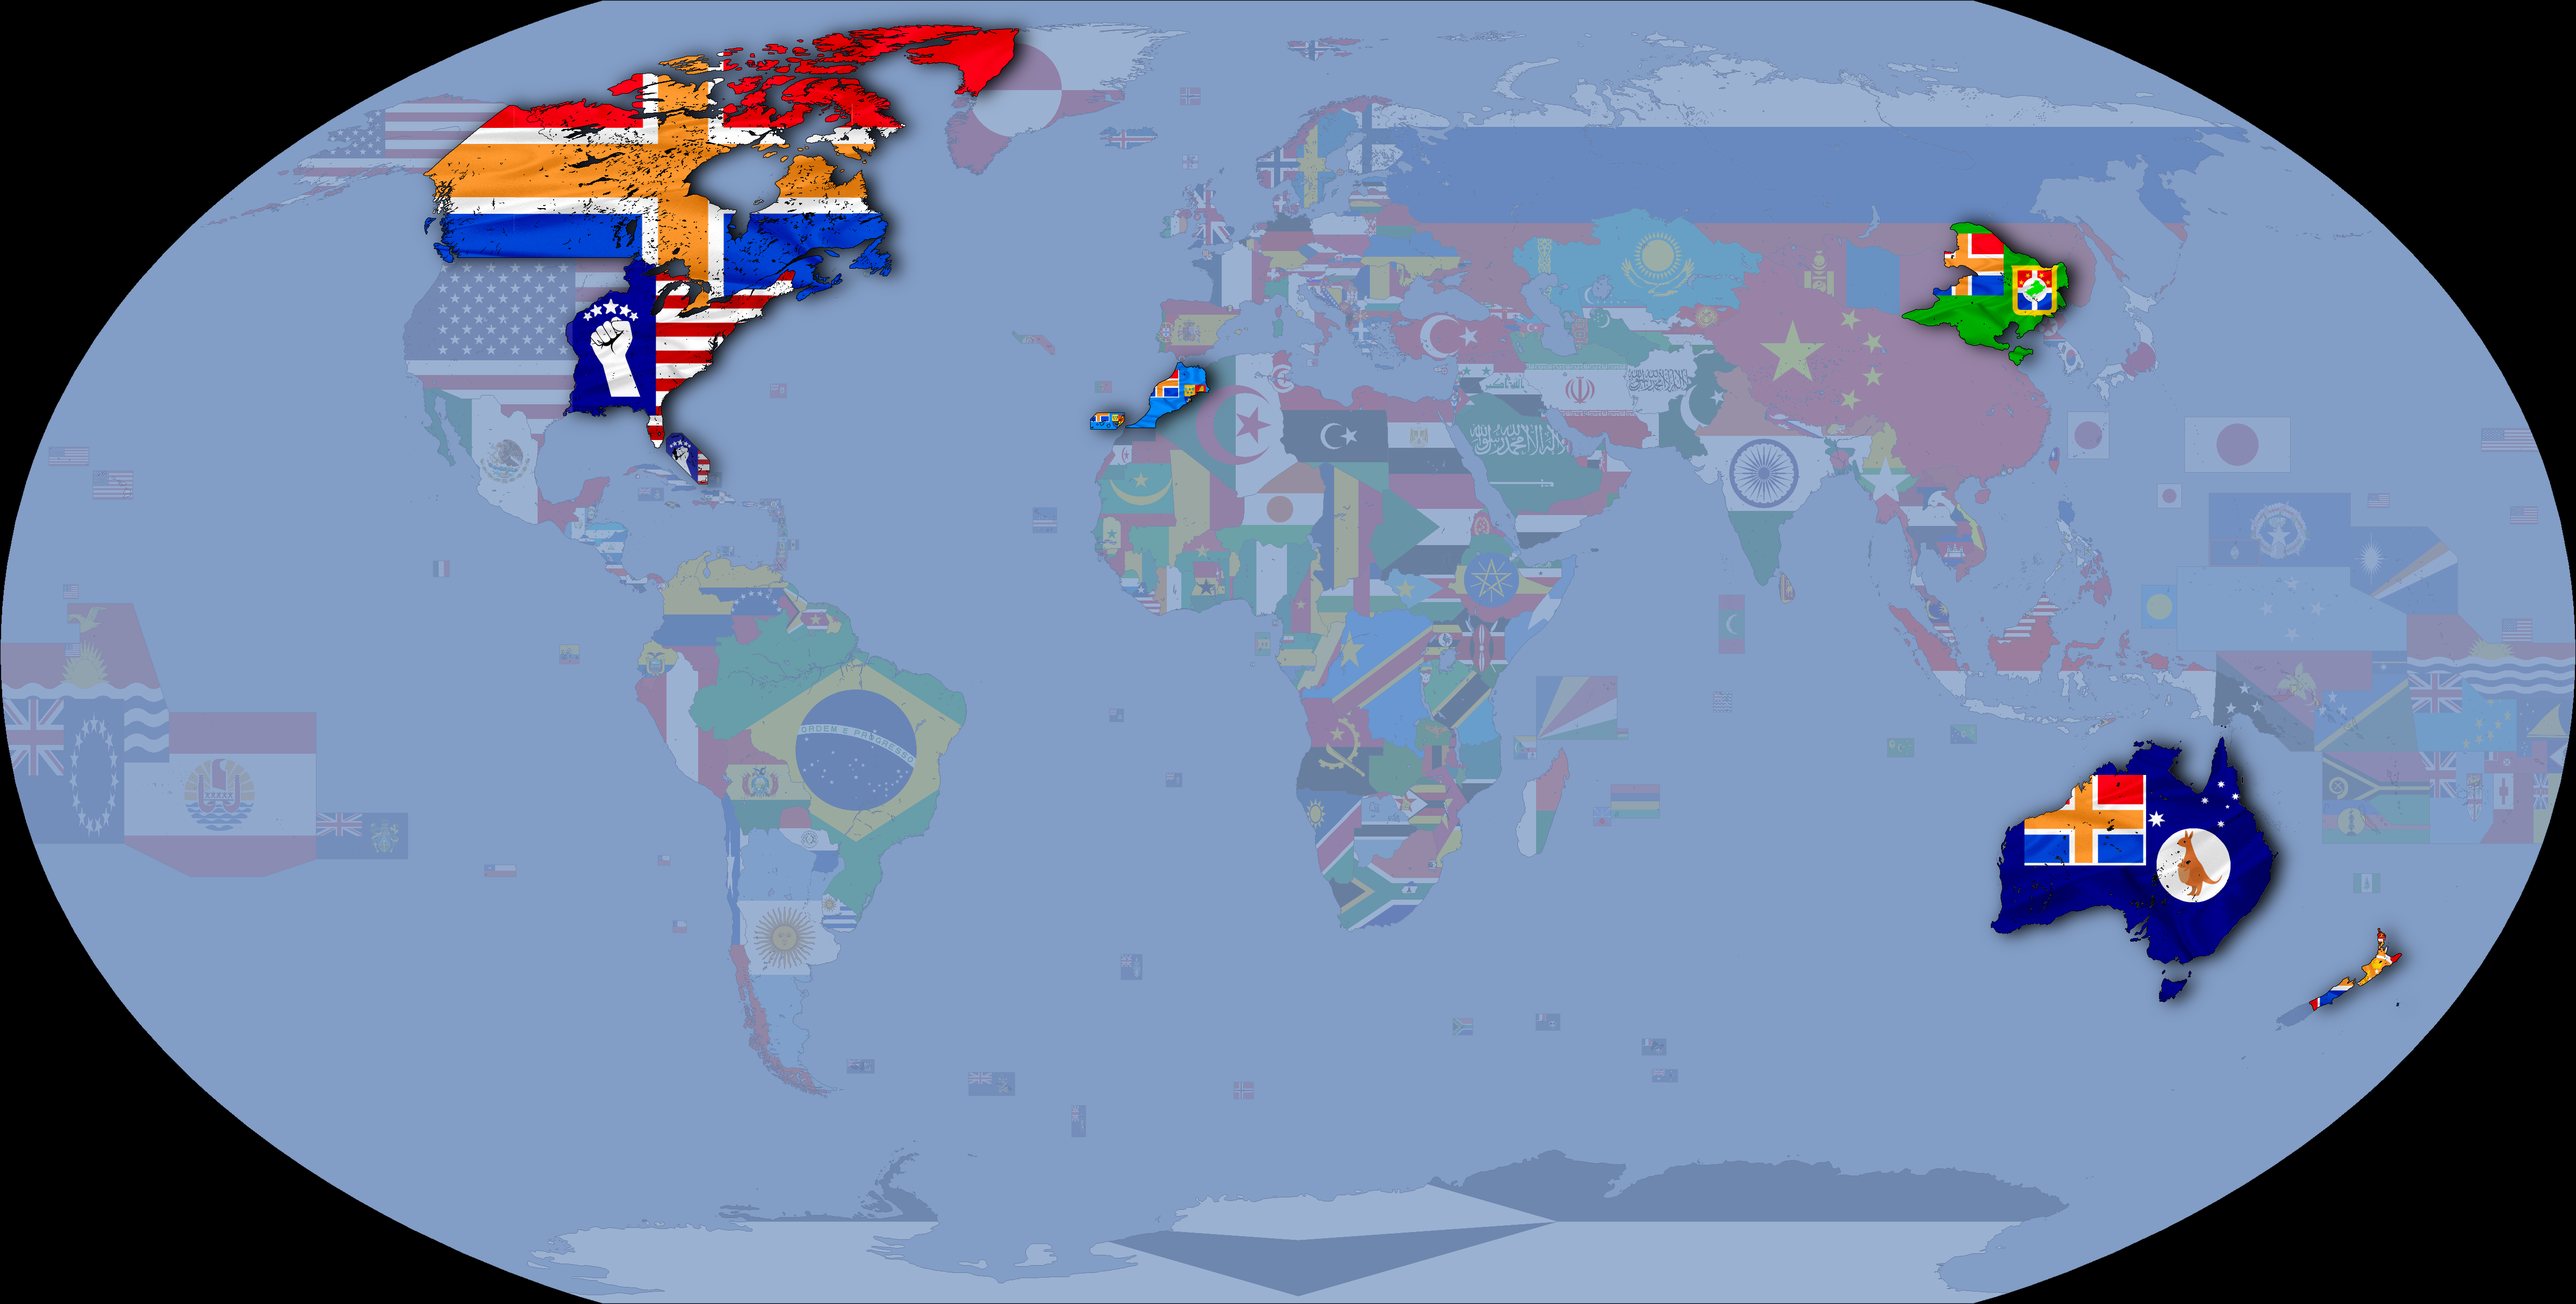
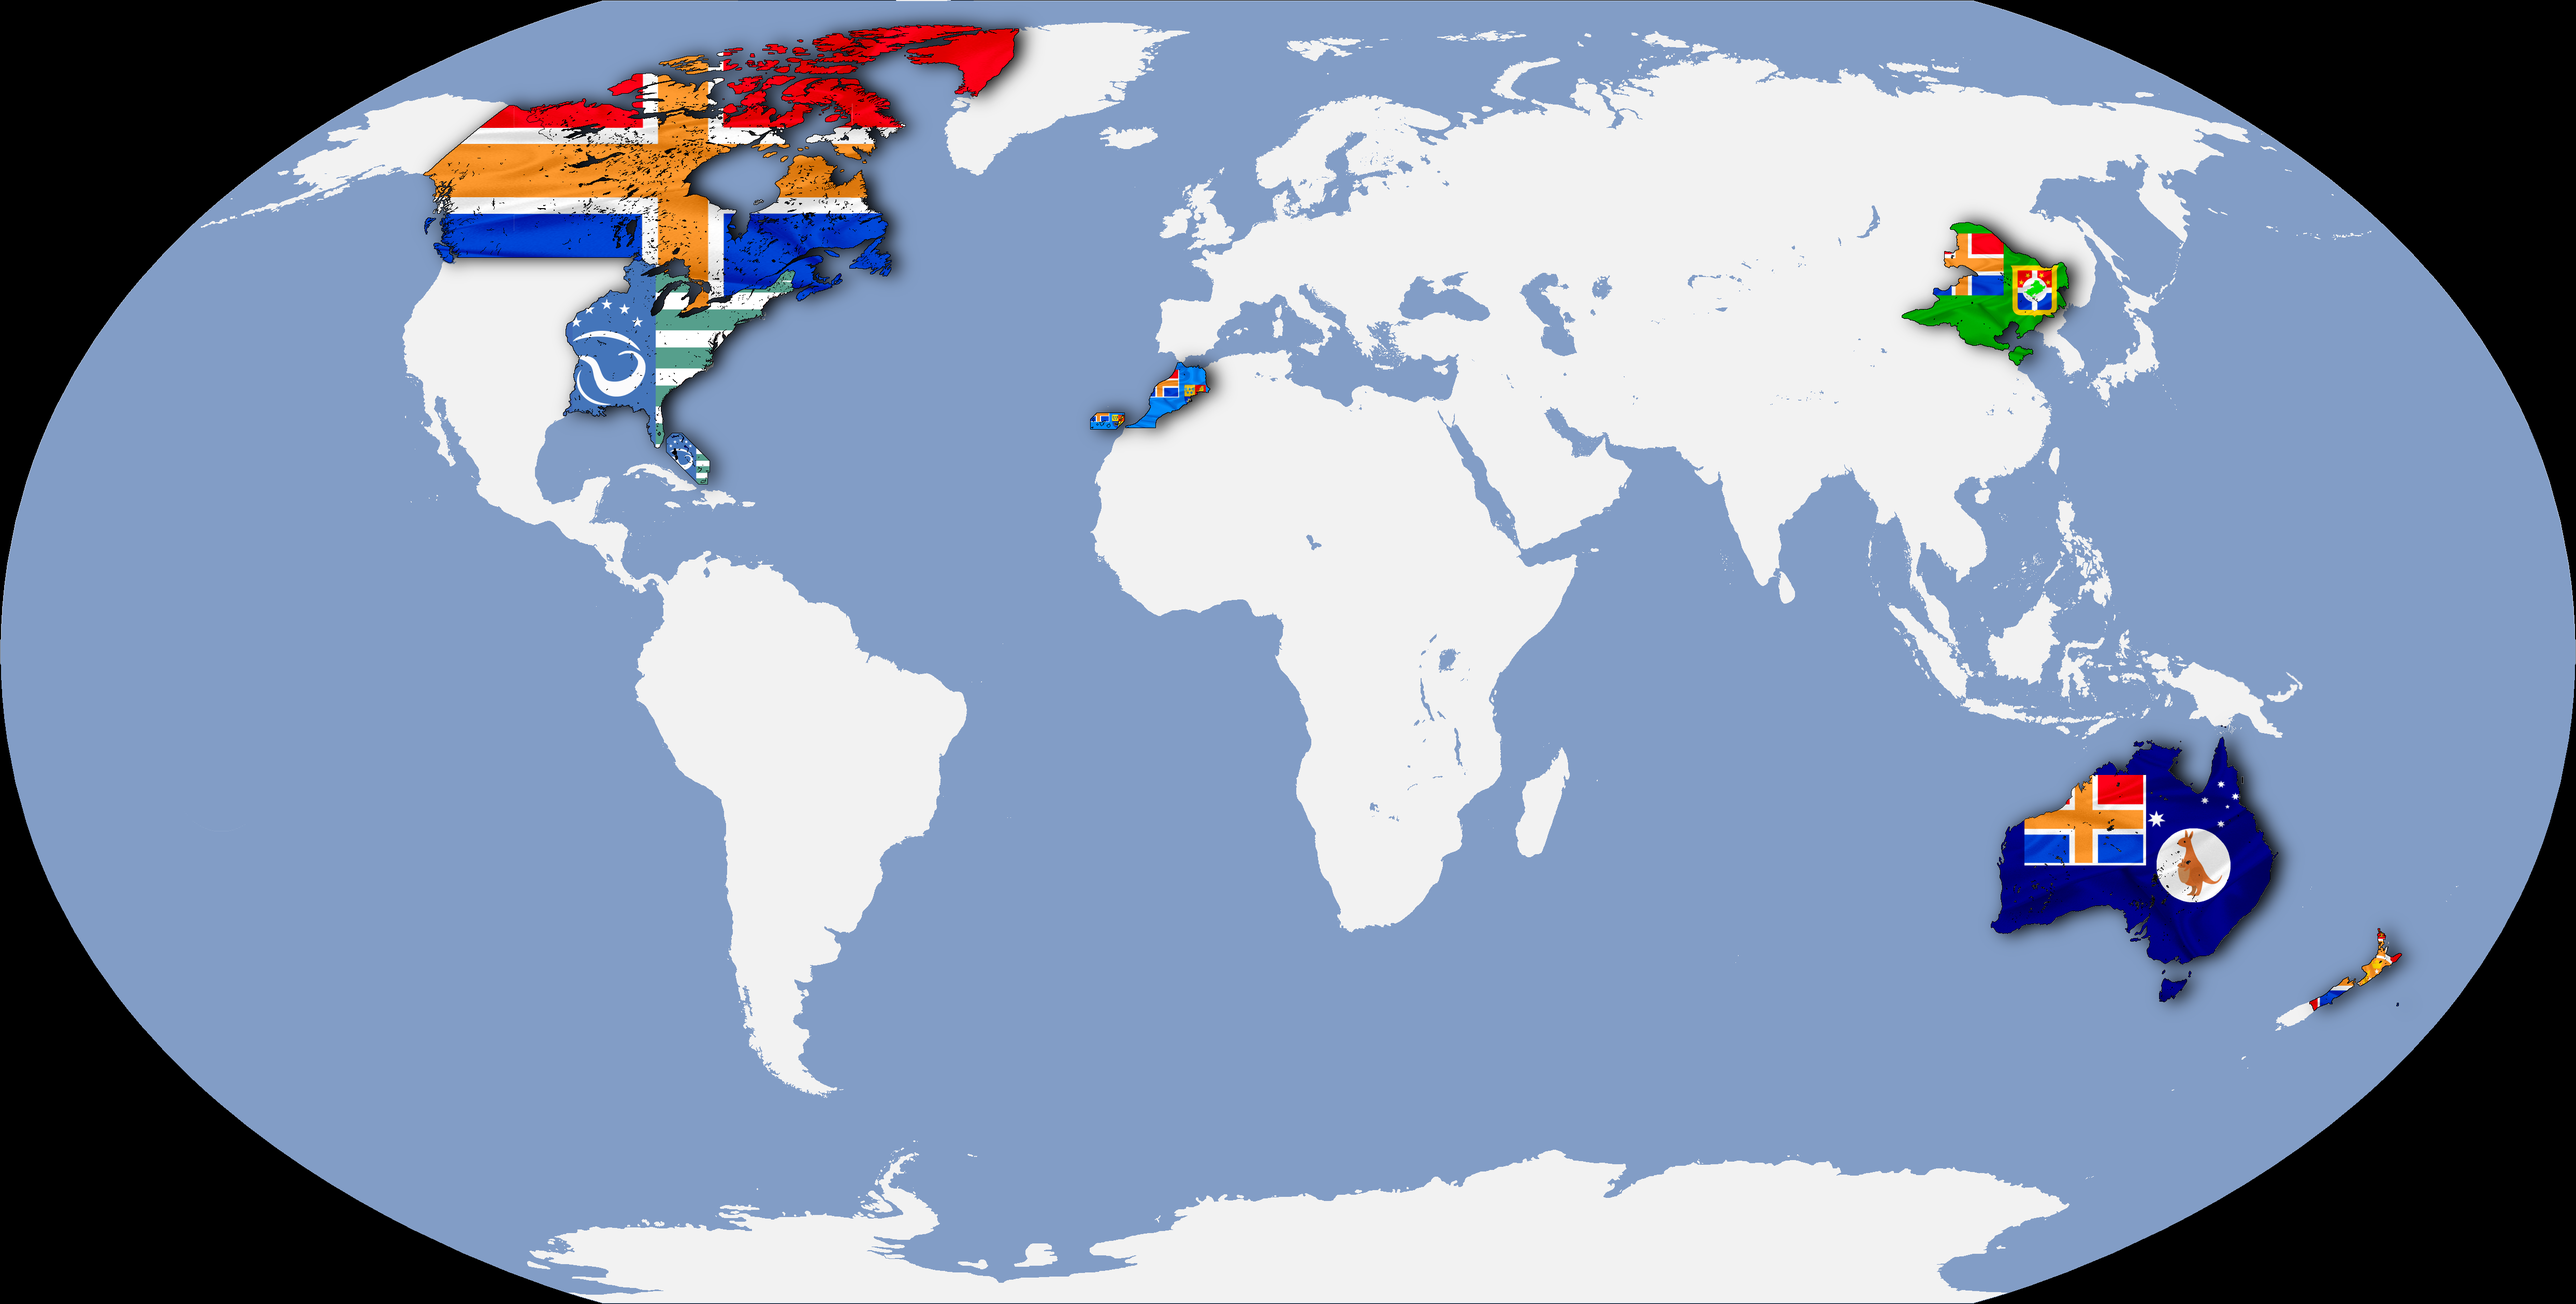
修正 0.9.3
為footer完善
為疆域網界加上海外疆域list
更換海外疆域圖片

diff --git a/subpages/territory.html b/subpages/territory.html
@@ -99,8 +99,18 @@
             <div class="flex_container">
                 <div class="flex_column2 rounded-container">
                     <h1 class="centered">本帝國疆域概況</h1>
+                    <h2 class="centered">本土疆域</h2>
                     <p>
                         N/A
+                    </p>
+                    <h2 class="centered">海外疆域</h2>
+                    <p>
+                        本帝國對外擁有多處海外領地，分布於不同洲際，以促進本帝國的國際影響力及經濟發展。這些海外領地包括：(截至西元2023年1月23日)<br>
+                        <ul>
+                            <li>大洋洲 - 陽屬袋鼠王國 (Sun's Kangaroo Kingdom, Oceania)</li>
+                            <li>北美洲 - 陽屬楊氏保護國 (Sun's Yang Protectorate, North America)</li>
+                            <li>亞洲 - 滿洲地區 (Manchurian Region, Asia)</li>
+                        </ul>
                     </p>
                 </div>
                 <div class="flex_column1 rounded-container centered">

diff --git a/index.html b/index.html
@@ -122,7 +122,15 @@
             <script src="javascript/pop-list.js" defer></script>
         </section>
         <footer class="footer">
-
+            <hr>
+            <div class="flex_container" style="padding: 10px;">
+                <div class="flex_column1 title" style="text-align: right;">
+                    大陽聯合帝國<br>Great Sun Empire
+                </div>
+                <div class="flex_column1" style="text-align: left;">
+                    <img src="images/national_emblem.png" height='80px' width="80px">
+                </div>
+            </div>
         </footer>
     </body>
 </html>

diff --git a/css/general.css b/css/general.css
@@ -61,7 +61,7 @@ hr {
     height: auto;
     z-index: 9999;
 
-    background-image:linear-gradient(to bottom,white, #FFF8E7);
+    background-image:linear-gradient(to top,white, #FFF8E7);
     color: #0d1b2a;
     font-family: 'Iansui';
 }

diff --git a/README.md b/README.md
@@ -134,3 +134,18 @@
 
  - 加上疆域頁面和數項圖片
 
+**0.9.1 修正 23 Jan**
+
+ - 增加對footer的前期規劃
+
+**0.9.2 修正 23 Jan**
+
+ - 修復post內容無法換行error
+
+**0.9.3 修正 23 Jan**
+
+ - 為footer完善
+
+ - 為疆域網界加上海外疆域list
+
+ - 更換海外疆域圖片
